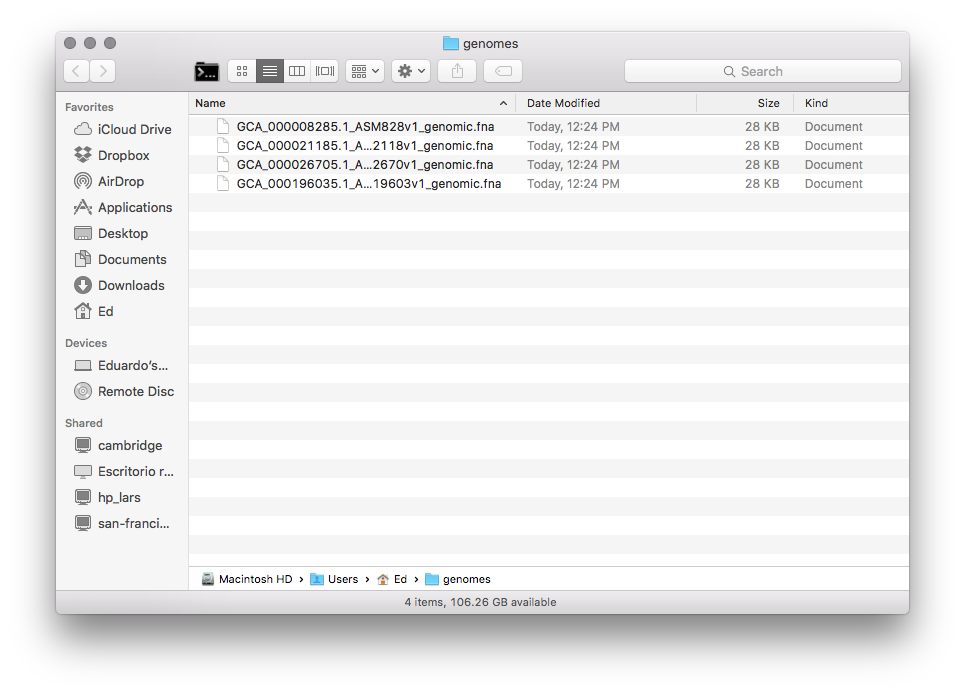
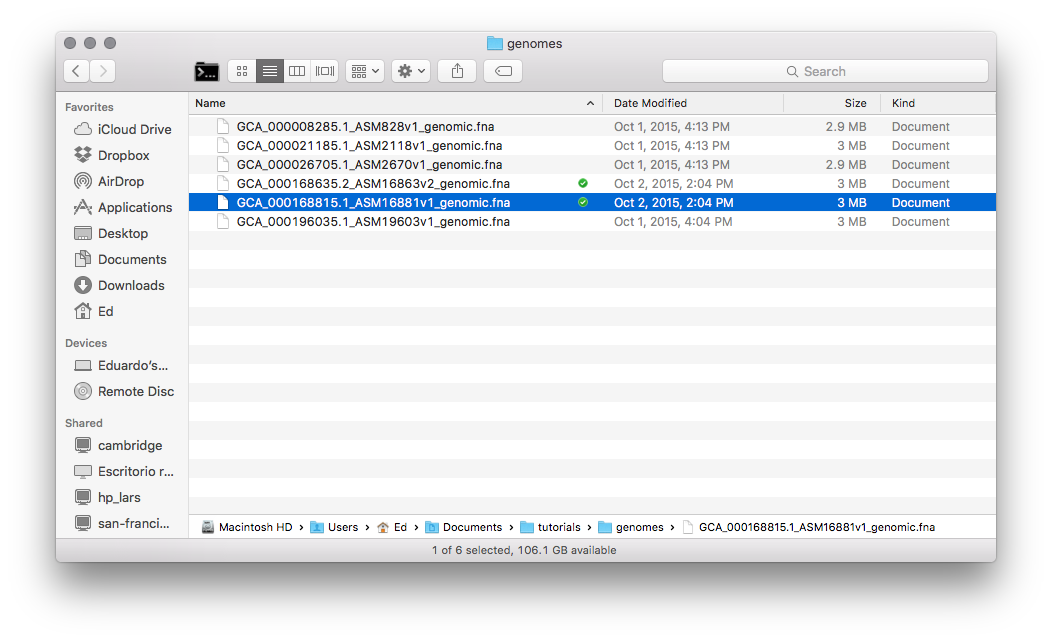
pangenome tutorial

Changed region(s): [[0.0311, 0.0312, 0.9637, 0.8723], [0.0622, 0.81, 0.9326, 0.9034]]

diff --git a/pangenome.md b/pangenome.md
@@ -8,12 +8,14 @@ This demo relies on two pieces of software, Prokka and Roary, so please remember
 
 For details on obtaining Prokka and Roary, please visit their GiHub repos [here](https://github.com/tseemann/prokka/blob/master/README.md) and [here](https://github.com/sanger-pathogens/Roary/blob/master/README.md).
 
-Assuming you have Prokka and Roary installed and in your PATH variable, go ahead and download the four *Listeria monocitogenes* genomes we are going to use for this demo. From the Terminal:
+Assuming you have Prokka and Roary installed and in your PATH variable, go ahead and download the six *Listeria monocitogenes* genomes we are going to use for this demo. From the Terminal:
 
 		wget https://github.com/CBIBUNAB/tutorials/blob/master/genomes/GCA_000008285.1_ASM828v1_genomic.fna
 		wget https://github.com/CBIBUNAB/tutorials/blob/master/genomes/GCA_000021185.1_ASM2118v1_genomic.fna
 		wget https://github.com/CBIBUNAB/tutorials/blob/master/genomes/GCA_000026705.1_ASM2670v1_genomic.fna
 		wget https://github.com/CBIBUNAB/tutorials/blob/master/genomes/GCA_000196035.1_ASM19603v1_genomic.fna
+		wget https://github.com/CBIBUNAB/tutorials/blob/master/genomes/GCA_000168635.2_ASM16863v2_genomic.fna
+		wget https://github.com/CBIBUNAB/tutorials/blob/master/genomes/GCA_000168815.1_ASM16881v1_genomic.fna
 
 You should see something like the following:
 
